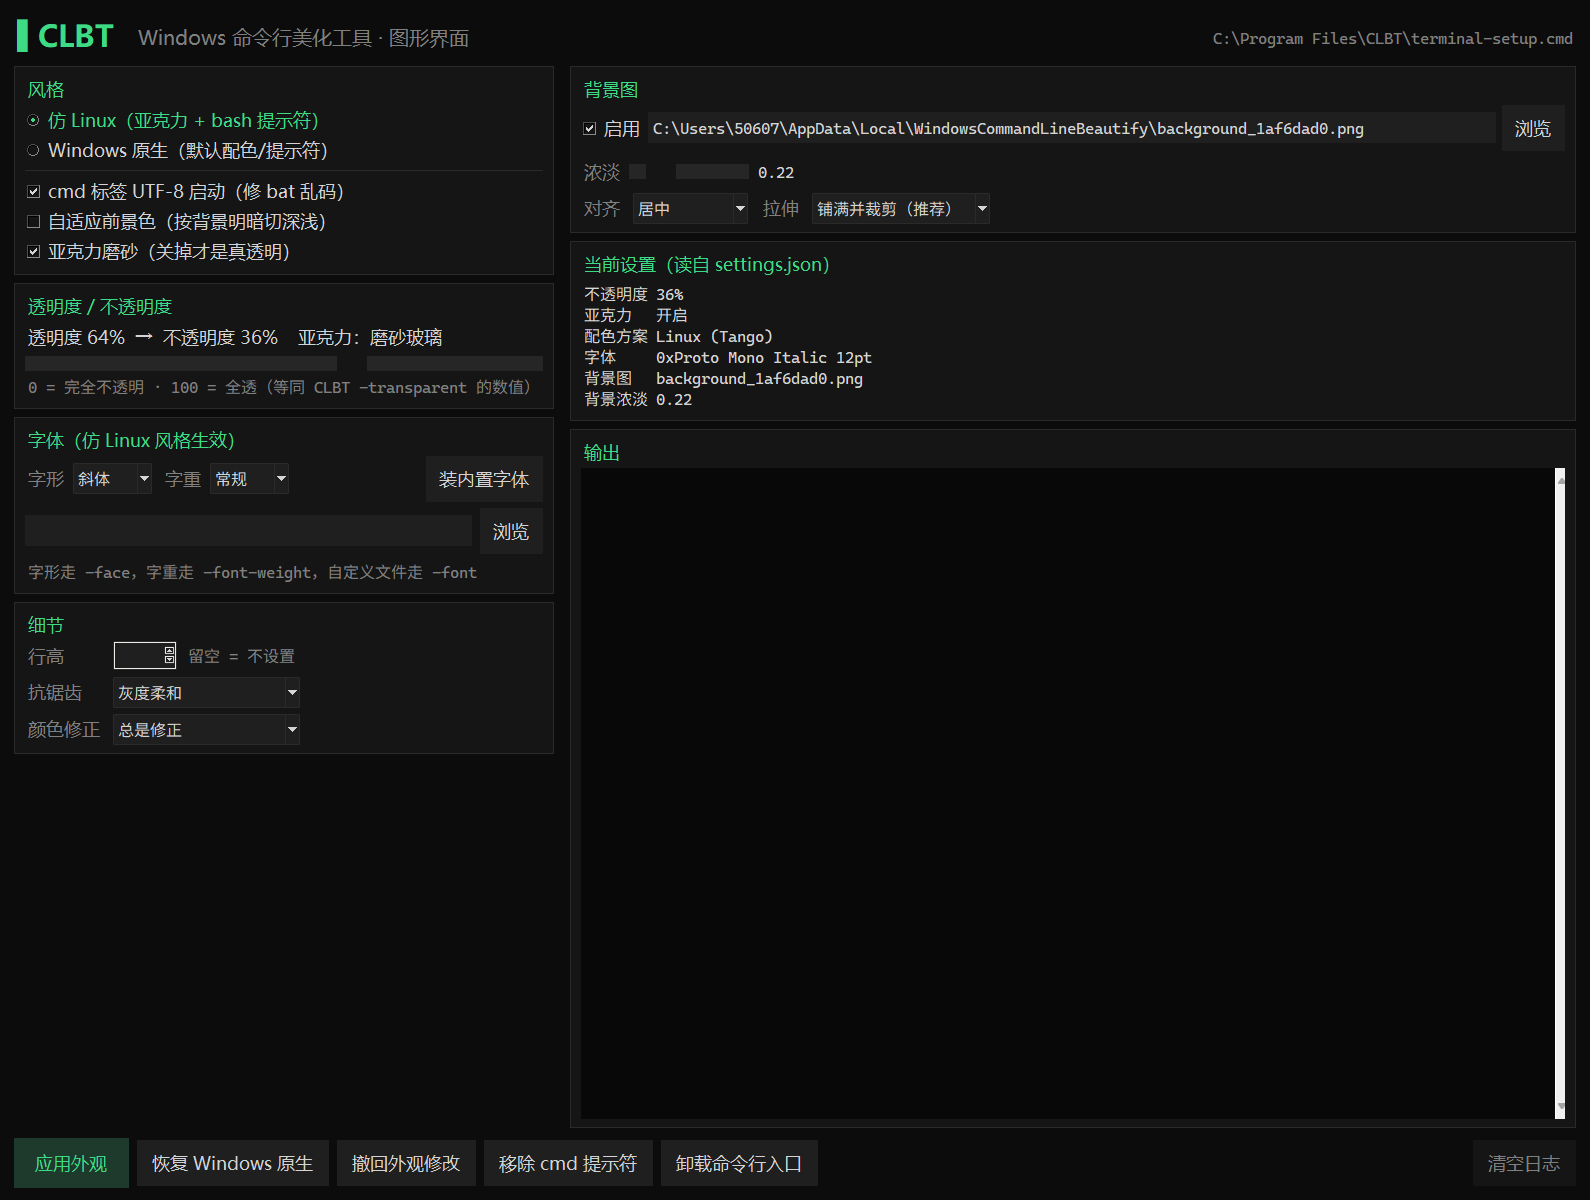
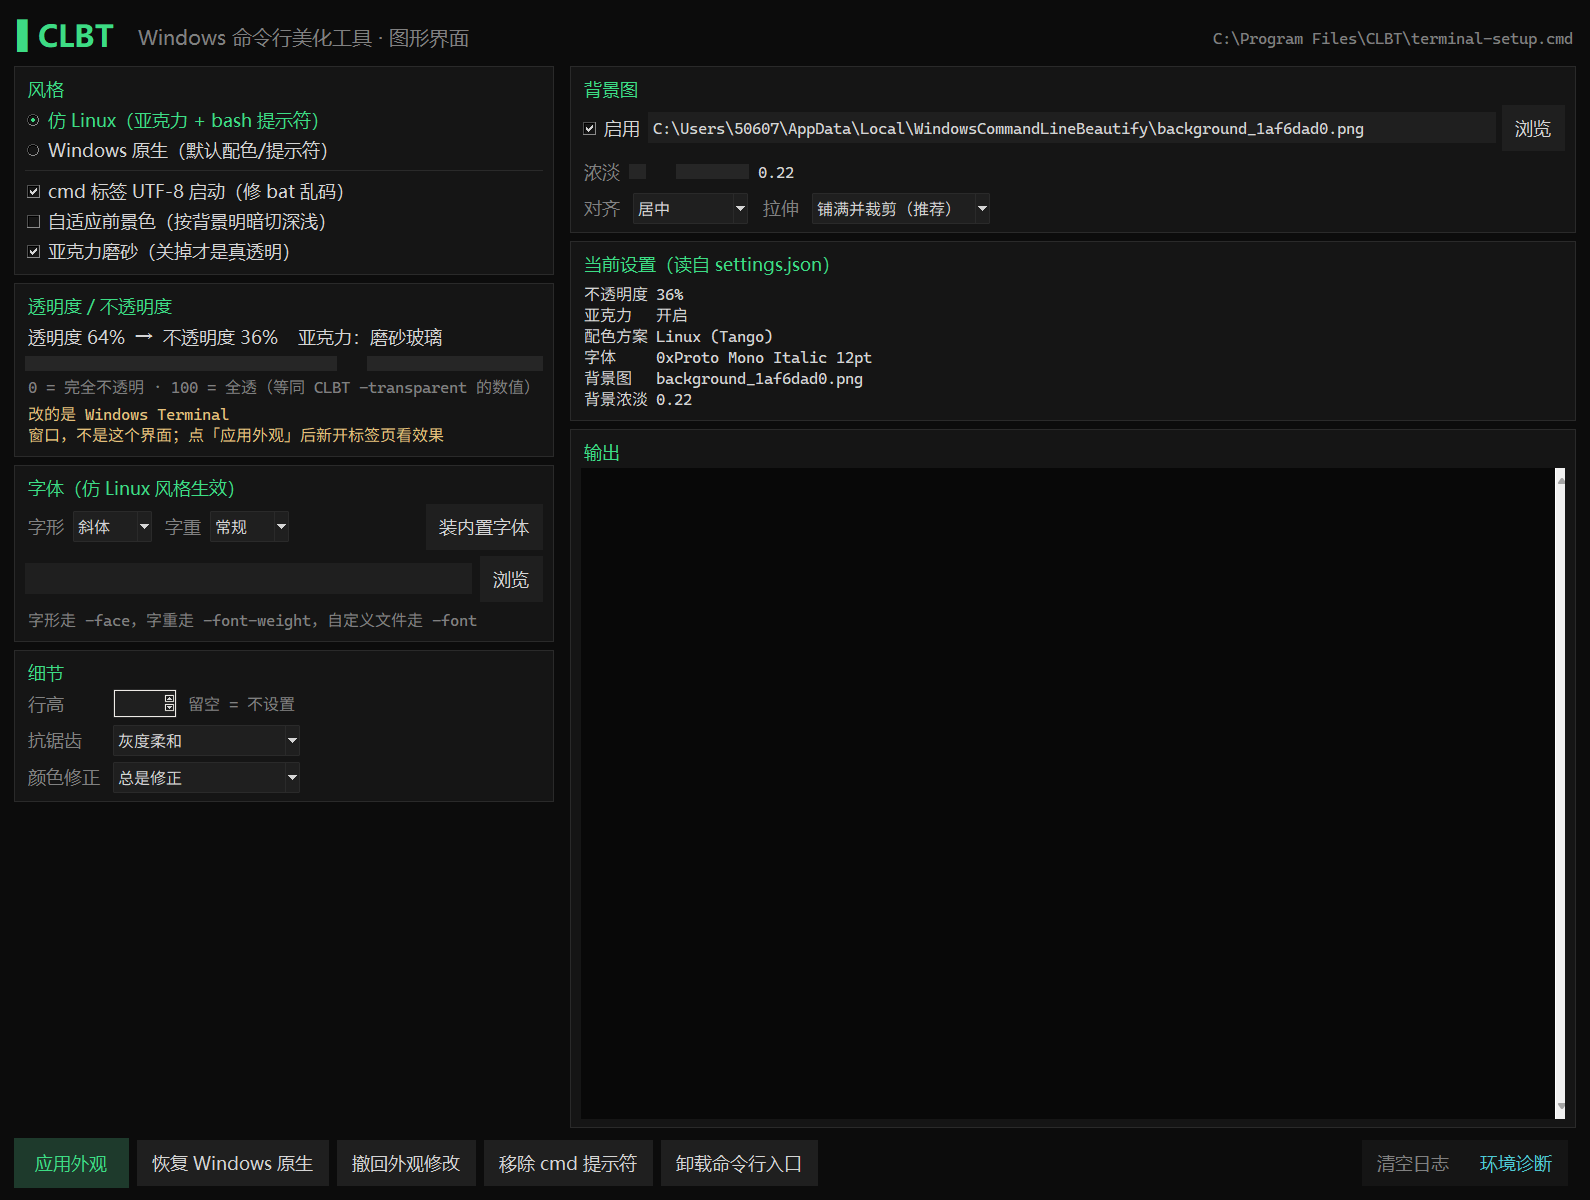
chore: 规范 terminal-setup.src.cmd 行尾（仓库存 LF）

diff --git a/clbt_gui.py b/clbt_gui.py
@@ -26,7 +26,7 @@ import tkinter as tk
 from tkinter import filedialog, messagebox, ttk
 
 APP_TITLE = "CLBT · Windows 命令行美化工具"
-VERSION = "1.0.9"
+VERSION = "1.0.10"
 
 # ---- 配色（跟终端黑玻璃一个调子）----
 BG = "#0C0C0C"
@@ -375,6 +375,9 @@ class App:
         self.scale_transp.pack(fill="x", pady=(4, 2))
         tk.Label(b, text="0 = 完全不透明 · 100 = 全透（等同 CLBT -transparent 的数值）",
                  bg=CARD, fg=DIM, font=MONO_S, anchor="w").pack(fill="x")
+        tk.Label(b, text="改的是 Windows Terminal 窗口，不是这个界面；点「应用外观」后新开标签页看效果",
+                 bg=CARD, fg="#E5C07B", font=MONO_S, anchor="w", wraplength=430,
+                 justify="left").pack(fill="x")
 
         c, b = self._card(left, "字体（仿 Linux 风格生效）")
         c.pack(fill="x", pady=(0, 8))
@@ -491,6 +494,8 @@ class App:
             btn = self._btn(acts, txt, fn)
             btn.pack(side="left", padx=(8, 0))
             self.action_buttons.append(btn)
+        diag = self._btn(acts, "环境诊断", self._diagnose, bg=CARD, fg=CYAN)
+        diag.pack(side="right", padx=(0, 8))
         self._btn(acts, "清空日志", self._clear_log, bg=CARD, fg=DIM).pack(side="right")
 
     # ---------------- 预填 / 状态
@@ -723,6 +728,10 @@ class App:
 
     def _undo_cmd(self):
         self._run(["--undo-cmd", "/y"], "移除 cmd 提示符")
+
+    def _diagnose(self):
+        """在日志里打印环境诊断：设置文件在哪、当前窗口由谁渲染"""
+        self._run(["-diagnose", "/y"], "环境诊断")
 
     def _install_fonts(self):
         self._run(["-install-fonts", "/y"], "安装内置字体")

diff --git a/CHANGELOG.md b/CHANGELOG.md
@@ -1,5 +1,17 @@
 # 更新日志
 
+## v1.0.10
+
+### 新增环境诊断
+- `CLBT -diagnose`（别名 `-doctor`）：一次说清「设置到底生效在哪」
+  - 列出所有 settings.json 候选路径、是否存在、当前 `opacity` / `useAcrylic` / 背景图、最后修改时间
+  - 打印当前窗口的进程链（`powershell → cmd → WindowsTerminal` 这种），判断当前窗口是不是真的 Windows Terminal
+  - 打印已安装的 Terminal 版本、系统「透明效果」开关
+  - 给出结论：如果宿主是 `Code.exe`（VS Code 集成终端）或传统 conhost，会直接提示「这里不读 Windows Terminal 的设置」
+- 图形界面：底部新增「环境诊断」按钮，结果打到日志区
+- 图形界面：透明度滑杆下面加了一句提醒——改的是 Windows Terminal 窗口，不是这个界面；
+  点「应用外观」后要新开标签页才看得到
+
 ## v1.0.9
 
 ### 透明度调不动？加了亚克力开关
